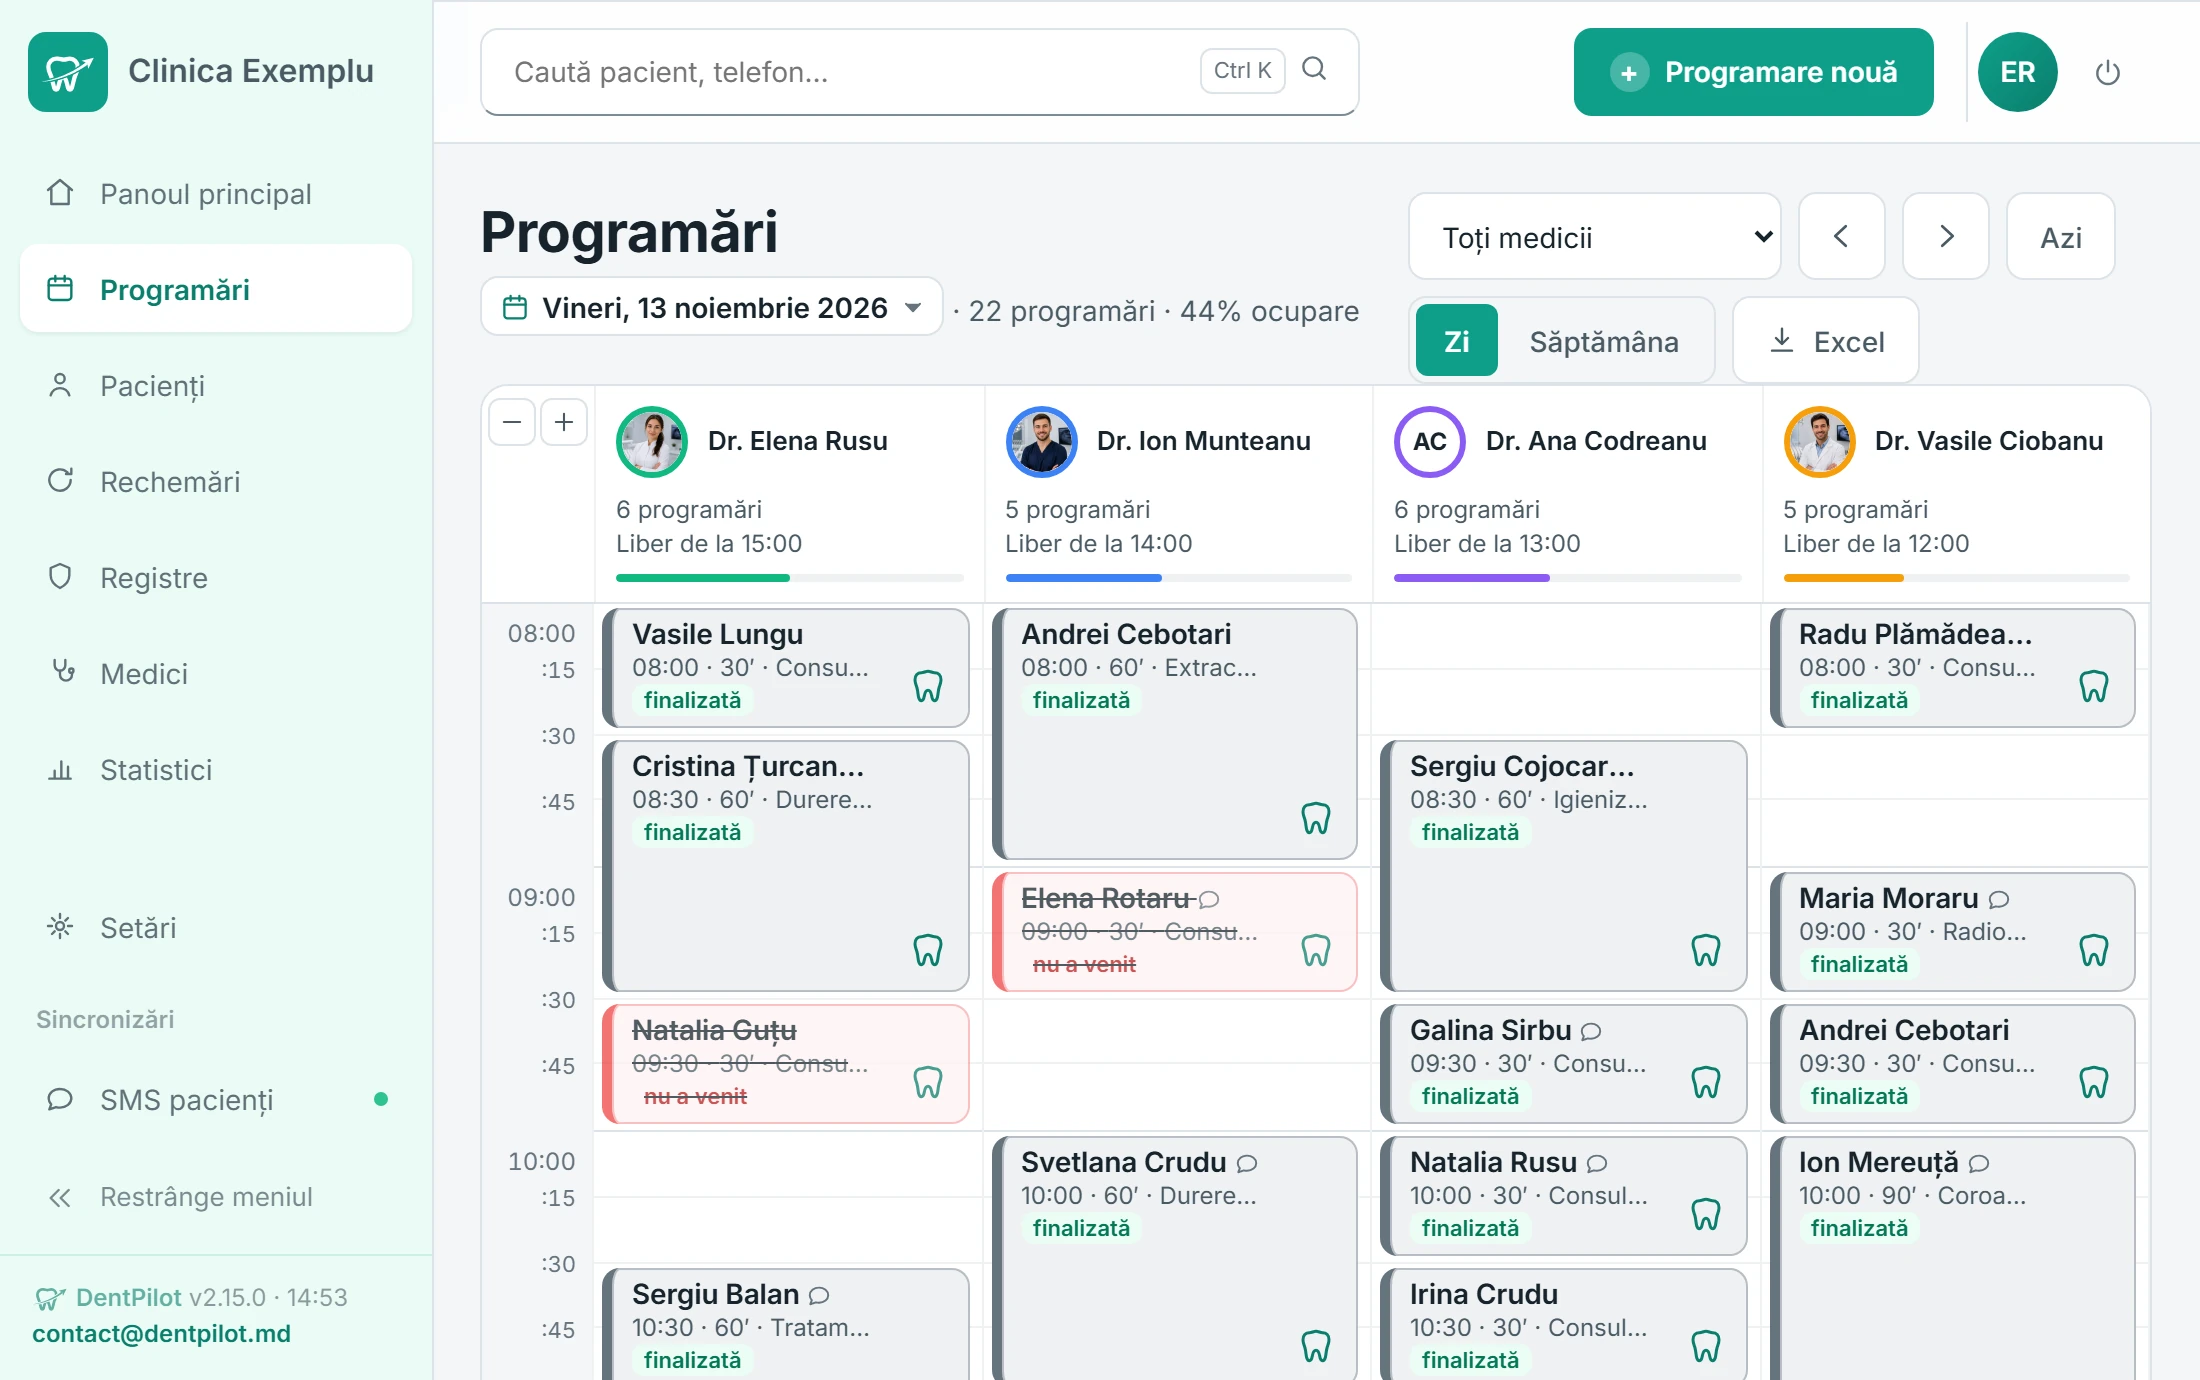
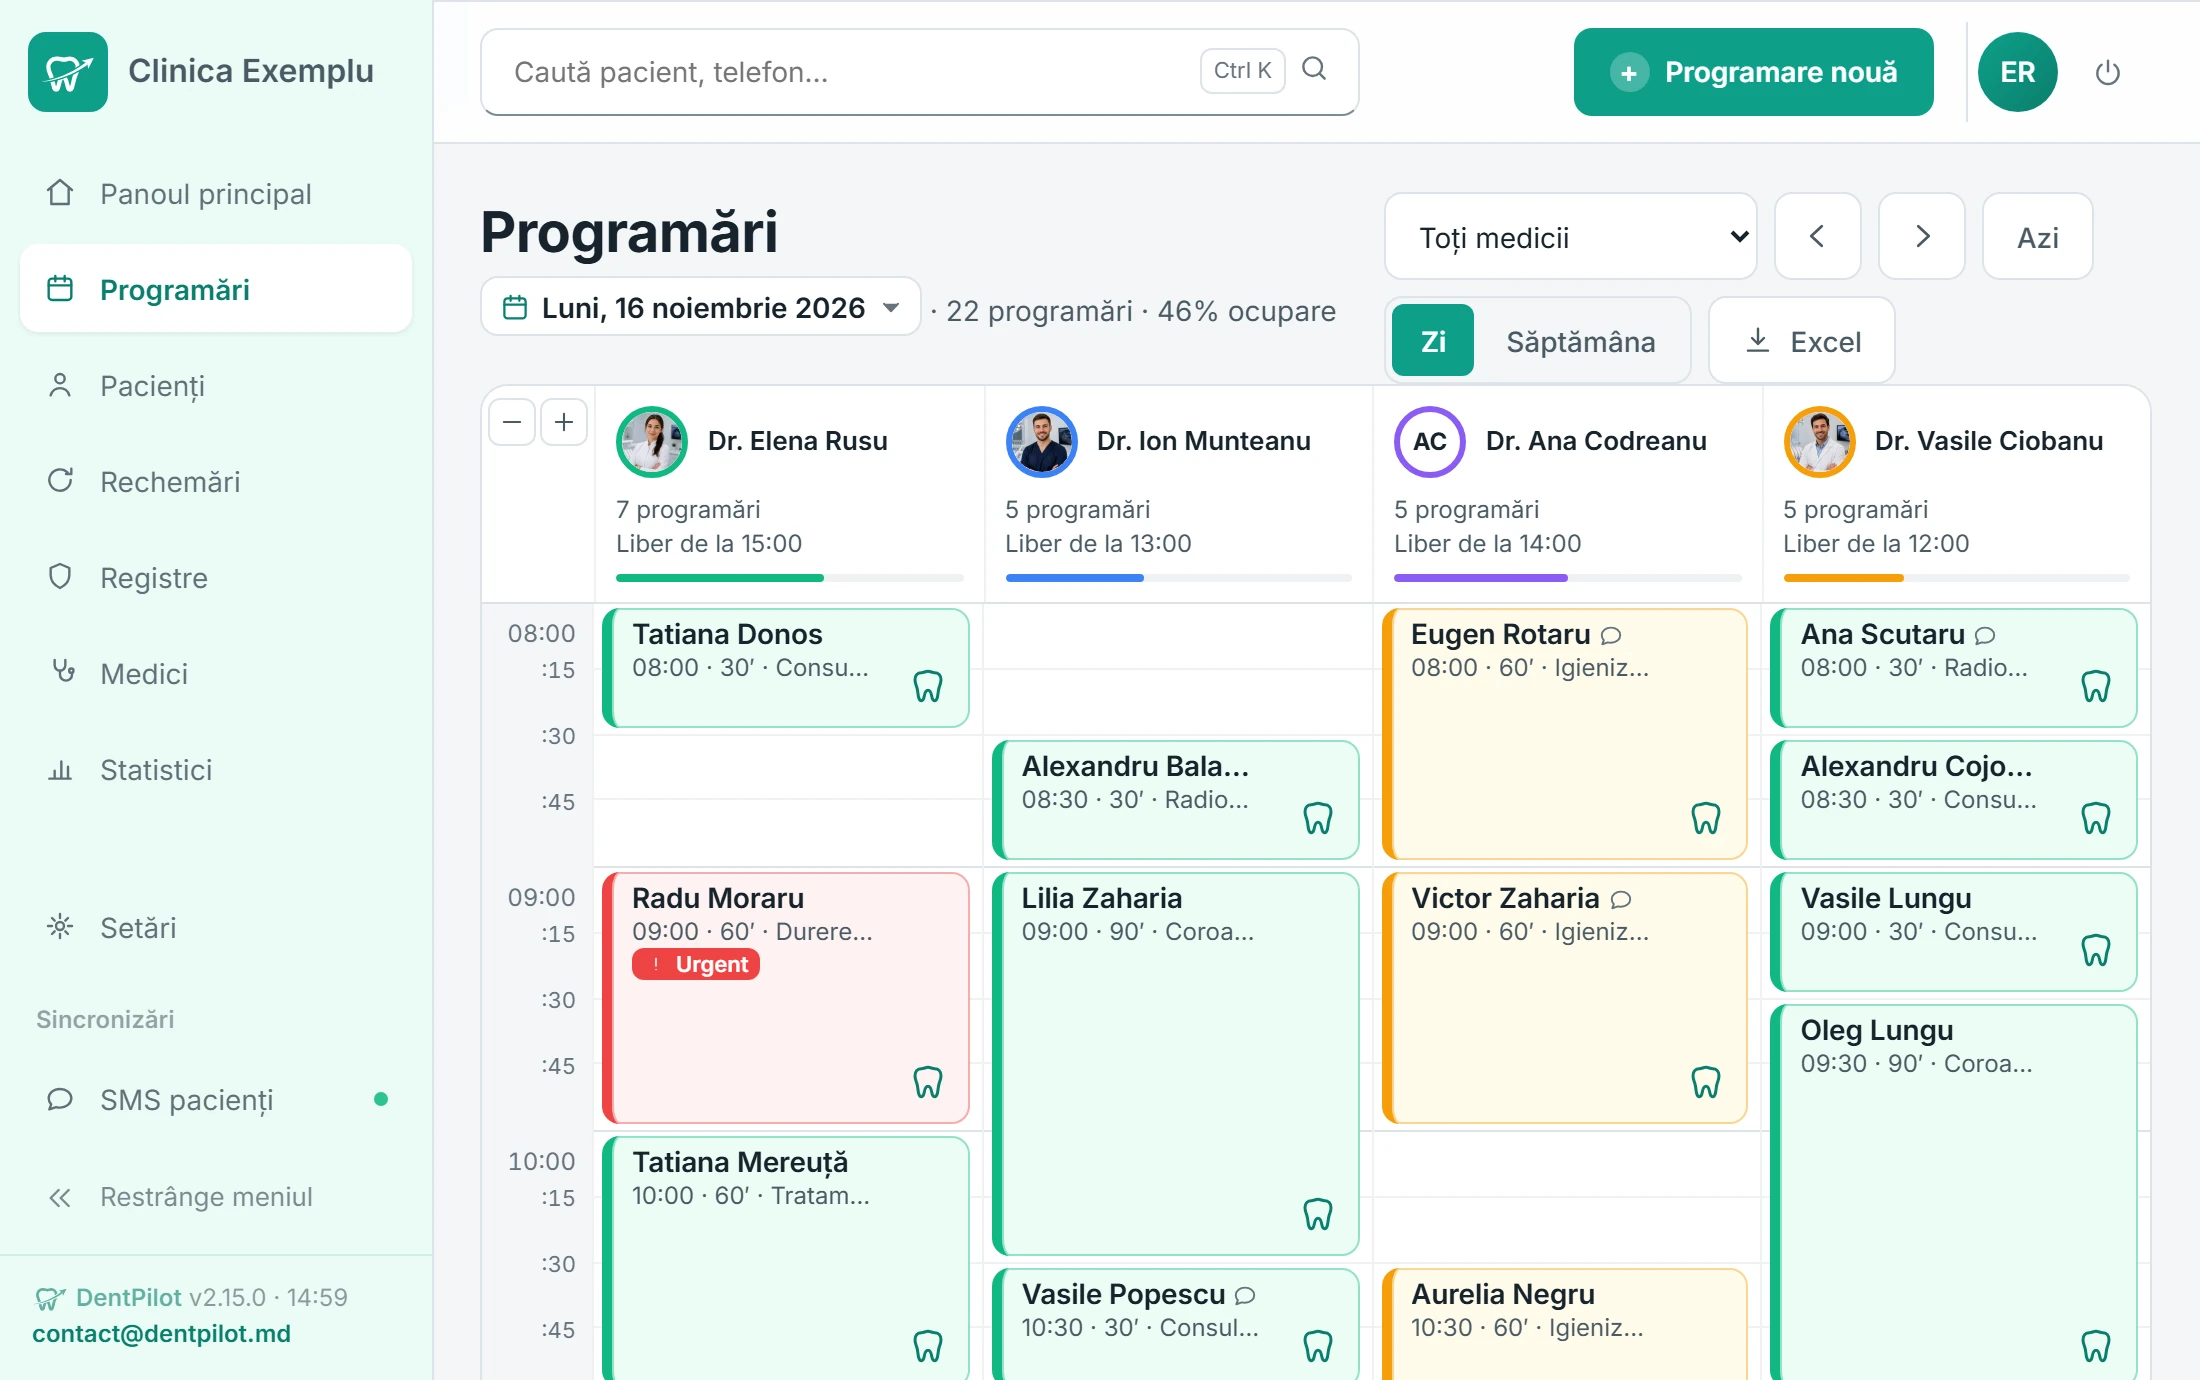
Guide frames guide-jurnal and guide-jurnal-mare replaced: a coming Monday with coloured blocks instead of the grey finished day (coordinator 13.11); the alt of the zoomed frame names what it shows - quarter-hour marks and taller blocks, not 5-15 minute visits

diff --git a/primii-pasi-ru.html b/primii-pasi-ru.html
@@ -551,7 +551,7 @@ footer{padding:48px 0 32px;background:var(--bg)}
 <p>Линии сетки отмечают часы, деления — четверти часа. Запись может начинаться каждые 5 минут (:00 – :55) и занимает на сетке ровно столько, сколько длится: визит на 15 минут — короткая строка, а не полчаса. В <span class="ui">Durată</span> — обычные значения, а <span class="ui">Altă durată…</span> принимает любую длительность, кратную 5 минутам, не больше 240.</p>
 <figure class="frame gshot"><img src="shots/guide-jurnal.webp" alt="Сетка журнала в DentPilot™: линии часов, деления по 15 минут и кнопки масштаба" width="2200" height="1380" loading="lazy"></figure>
 <p>Кнопки с плюсом и минусом у сетки — <span class="ui">Mărește grila</span> и <span class="ui">Micșorează grila</span> — меняют масштаб, три ступени; на самой крупной деления идут через 5 минут. Программа помнит масштаб на каждом компьютере.</p>
-<figure class="frame gshot"><img src="shots/guide-jurnal-mare.webp" alt="Сетка журнала DentPilot™ в крупном масштабе: короткие визиты, на 5–15 минут, легко читаются" width="2200" height="1380" loading="lazy"></figure>
+<figure class="frame gshot"><img src="shots/guide-jurnal-mare.webp" alt="Сетка журнала DentPilot™ в увеличенном масштабе: четверти часа подписаны, записи выше" width="2200" height="1380" loading="lazy"></figure>
 <h3>Кабинет у записи</h3>
 <p>Если у врача в карточке несколько кабинетов (шаг 5), его колонка на сетке делится на дорожки, по одной на кабинет, и врач может одновременно вести по одной записи в каждом. При записи появляется поле <span class="ui">Cabinet</span>; в окне визита <span class="ui">Schimbă cabinetul</span> переводит её в другой кабинет. Если в кабинете в это же время принимает другой врач, программа предупреждает, но запись оставляет. Для врача с одним кабинетом ничего не меняется.</p>
 <figure class="frame gshot"><img src="shots/guide-cabinete.webp" alt="Дорожки кабинетов в DentPilot™: колонка врача разделена по кабинетам" width="2200" height="1380" loading="lazy"></figure>

diff --git a/primii-pasi.html b/primii-pasi.html
@@ -551,7 +551,7 @@ footer{padding:48px 0 32px;background:var(--bg)}
 <p>Liniile grilei marchează orele, iar diviziunile — sferturile de oră. O programare poate începe din 5 în 5 minute (:00 – :55) și ocupă pe grilă exact cât durează: o vizită de 15 minute este un rând scurt, nu o jumătate de oră. La <span class="ui">Durată</span> sunt valorile obișnuite, iar <span class="ui">Altă durată…</span> primește orice durată din 5 în 5 minute, cel mult 240.</p>
 <figure class="frame gshot"><img src="shots/guide-jurnal.webp" alt="Grila registrului în DentPilot™: liniile orelor, diviziunile de 15 minute și butoanele de scară" width="2200" height="1380" loading="lazy"></figure>
 <p>Butoanele cu plus și minus de lângă grilă — <span class="ui">Mărește grila</span> și <span class="ui">Micșorează grila</span> — schimbă scara în trei trepte; pe cea mai mare, diviziunile sunt la 5 minute. Programul ține minte scara pe fiecare calculator.</p>
-<figure class="frame gshot"><img src="shots/guide-jurnal-mare.webp" alt="Grila registrului DentPilot™ pe scara mare: vizitele scurte, de 5–15 minute, se citesc ușor" width="2200" height="1380" loading="lazy"></figure>
+<figure class="frame gshot"><img src="shots/guide-jurnal-mare.webp" alt="Grila registrului DentPilot™ pe scara mărită: sferturile de oră sunt marcate, iar programările sunt mai înalte" width="2200" height="1380" loading="lazy"></figure>
 <h3>Cabinetul la programare</h3>
 <p>Dacă medicul are mai multe cabinete în fișa lui (pasul 5), coloana lui din grilă se împarte în benzi, câte una pentru fiecare cabinet, iar medicul poate avea în același timp câte o programare în fiecare. La programare apare câmpul <span class="ui">Cabinet</span>; din fereastra vizitei, <span class="ui">Schimbă cabinetul</span> o trece în alt cabinet. Dacă în cabinet lucrează la aceeași oră alt medic, programul previne, dar lasă înscrierea. Pentru medicul cu un singur cabinet nu se schimbă nimic.</p>
 <figure class="frame gshot"><img src="shots/guide-cabinete.webp" alt="Benzile cabinetelor în DentPilot™: coloana medicului împărțită pe cabinete" width="2200" height="1380" loading="lazy"></figure>
